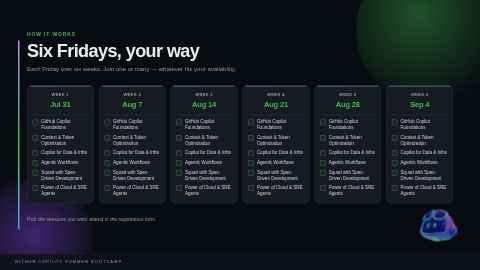
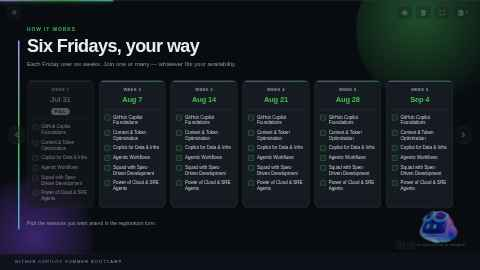
Auto-save from DECKIO — 2026-07-27T09:25

diff --git a/src/slides/TimetableSlide.module.css b/src/slides/TimetableSlide.module.css
@@ -165,3 +165,25 @@
   line-height: 1.5;
   margin: 0;
 }
+
+.dayFull {
+  opacity: 0.55;
+  filter: grayscale(0.6);
+}
+
+.dayFull::before {
+  background: var(--muted-foreground);
+  opacity: 0.4;
+}
+
+.fullBadge {
+  margin-top: 4px;
+  padding: 2px 10px;
+  font-size: 10px;
+  font-weight: 800;
+  text-transform: uppercase;
+  letter-spacing: 1px;
+  color: var(--background);
+  background: var(--muted-foreground);
+  border-radius: 999px;
+}
